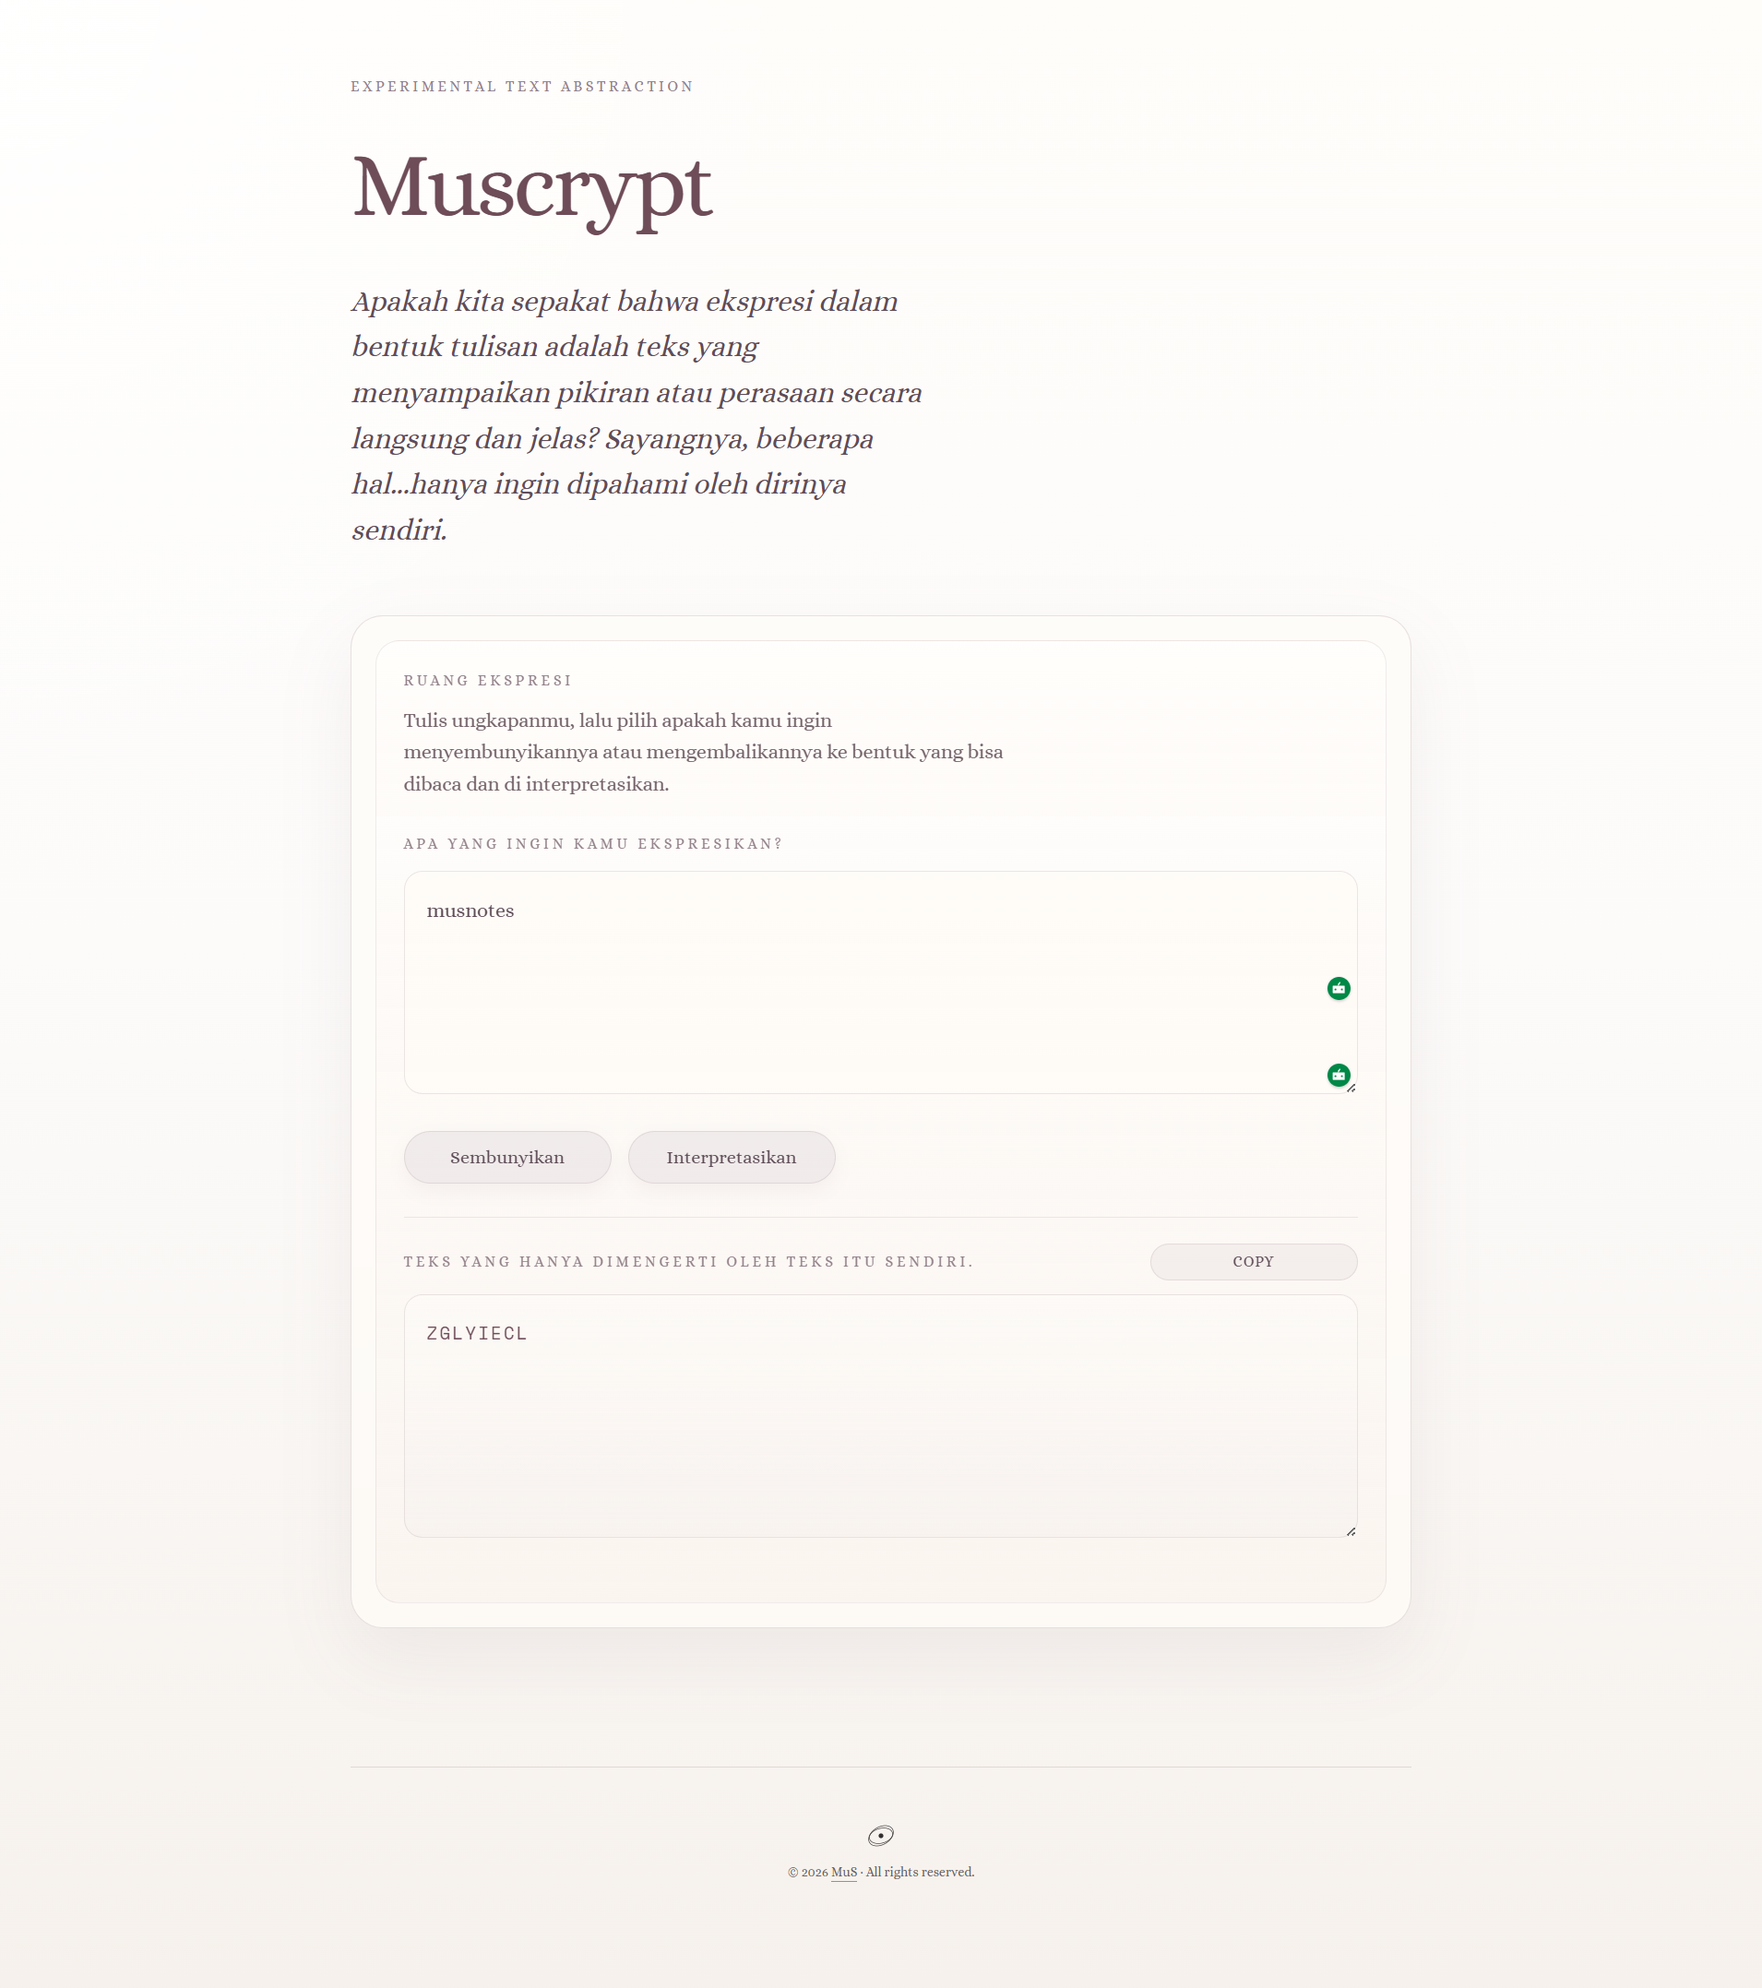
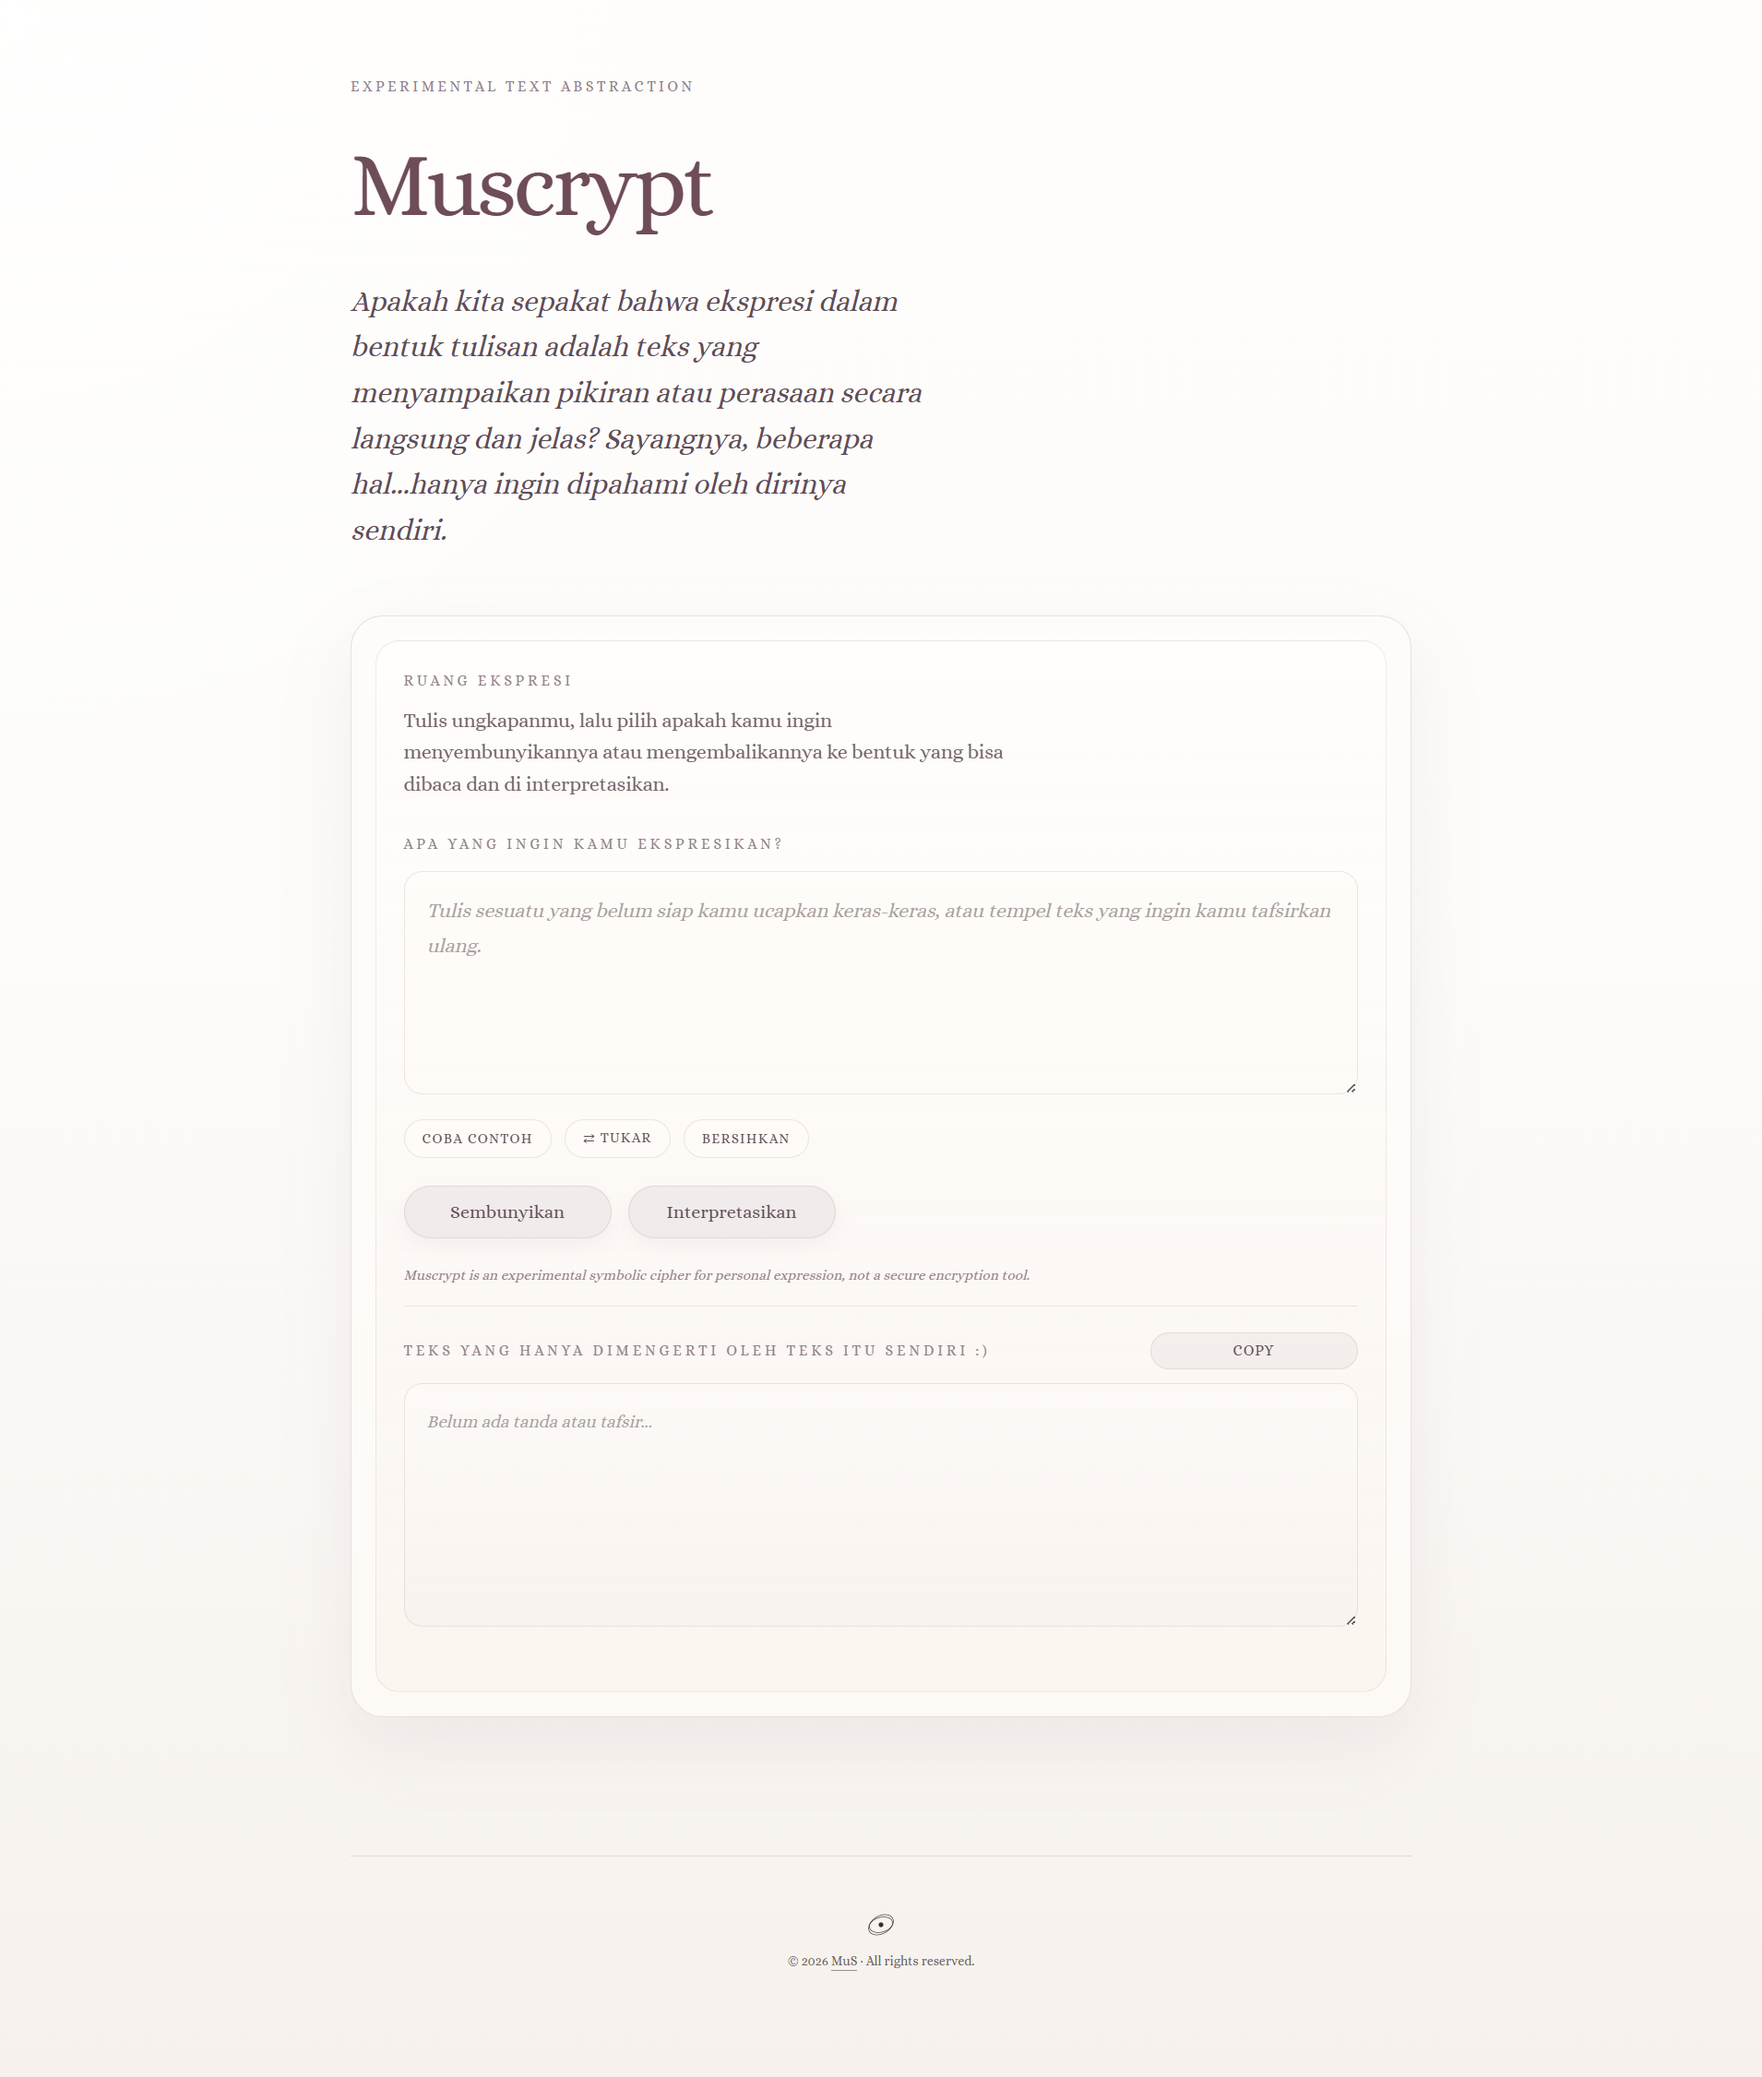
update 1.1

diff --git a/index.html b/index.html
@@ -6,7 +6,7 @@
     <meta charset="UTF-8">
     <meta name="viewport" content="width=device-width, initial-scale=1.0">
     <title>Muscrypt • Experimental Text Abstraction</title>
-    <meta name="description" content="Muscrypt adalah ruang kecil untuk menyembunyikan ekspresi dan membacanya kembali lewat pola cipher.">
+    <meta name="description" content="Muscrypt adalah eksperimen transformasi teks yang mengubah tulisan menjadi pola simbolik menggunakan pemetaan Monoalphabetic Substitution Cipher">
     <meta name="theme-color" content="#fcfbfa">
     <meta name="color-scheme" content="light dark">
     <link rel="canonical" href="https://muscrypt.musnotes.my.id/">
@@ -14,17 +14,17 @@
     <meta property="og:locale" content="id_ID">
     <meta property="og:type" content="website">
     <meta property="og:title" content="Muscrypt • Experimental Text Abstraction">
-    <meta property="og:description" content="Ruang kecil untuk menyembunyikan ekspresi dan membacanya kembali lewat pola cipher.">
+    <meta property="og:description" content="Ruang untuk menyembunyikan ekspresi dalam tulisan dan membacanya kembali melalui transformasi teks berbasis Monoalphabetic Substitution Cipher">
     <meta property="og:url" content="https://muscrypt.musnotes.my.id/">
     <meta property="og:site_name" content="Muscrypt">
     <meta property="og:image" content="https://muscrypt.musnotes.my.id/og-image.png">
     <meta property="og:image:width" content="1200">
     <meta property="og:image:height" content="630">
-    <meta property="og:image:alt" content="Muscrypt experimental text abstraction interface">
+    <meta property="og:image:alt" content="Antarmuka abstraksi teks eksperimental Muscrypt">
 
     <meta name="twitter:card" content="summary_large_image">
     <meta name="twitter:title" content="Muscrypt">
-    <meta name="twitter:description" content="Ruang kecil untuk menyembunyikan ekspresi dan membacanya kembali lewat pola cipher.">
+    <meta name="twitter:description" content="Ruang untuk menyembunyikan ekspresi dan membacanya kembali melalui transformasi teks berbasis Monoalphabetic Substitution Cipher">
     <meta name="twitter:image" content="https://muscrypt.musnotes.my.id/og-image.png">
 
     <link rel="icon" href="favicon/favicon.ico" sizes="any">
@@ -50,13 +50,20 @@
 
                 <div class="input-group">
                     <label for="inputText">Apa yang ingin kamu ekspresikan?</label>
-                    <textarea id="inputText" rows="5" placeholder="Tuliskan ungkapan di sini, atau masukkan ungkapan yang ingin kamu interpretasikan."></textarea>
+                    <textarea id="inputText" rows="5" placeholder="Tulis sesuatu yang belum siap kamu ucapkan keras-keras, atau tempel teks yang ingin kamu tafsirkan ulang."></textarea>
+                    <div class="input-tools" aria-label="Bantuan input">
+                        <button id="btnExample" class="input-tool-button" type="button">Coba contoh</button>
+                        <button id="btnSwap" class="input-tool-button" type="button">⇄ Tukar</button>
+                        <button id="btnClear" class="input-tool-button" type="button">Bersihkan</button>
+                    </div>
                 </div>
 
                 <div class="action-buttons">
                     <button id="btnEncode" type="button">Sembunyikan</button>
                     <button id="btnDecode" type="button">Interpretasikan</button>
                 </div>
+
+                <p class="cipher-disclaimer">Muscrypt is an experimental symbolic cipher for personal expression, not a secure encryption tool.</p>
 
                 <div class="input-group output-group">
                     <div class="output-head">

diff --git a/script.js b/script.js
@@ -40,6 +40,47 @@ const outputLabel = document.getElementById('outputLabel');
 const btnEncode = document.getElementById('btnEncode');
 const btnDecode = document.getElementById('btnDecode');
 const btnCopy = document.getElementById('btnCopy');
+const btnExample = document.getElementById('btnExample');
+const btnSwap = document.getElementById('btnSwap');
+const btnClear = document.getElementById('btnClear');
+const exampleText = "Sepertinya ekspresi dalam tulisan memang ditakdirkan untuk menafsirkan dirinya sendiri";
+
+let copyFeedbackTimer;
+let swapFeedbackTimer;
+
+function setCopyButtonText(text) {
+    btnCopy.textContent = text;
+}
+
+function resetCopyButton(delay = 0) {
+    window.clearTimeout(copyFeedbackTimer);
+
+    if (delay > 0) {
+        copyFeedbackTimer = window.setTimeout(() => {
+            setCopyButtonText('Copy');
+        }, delay);
+        return;
+    }
+
+    setCopyButtonText('Copy');
+}
+
+function setSwapButtonText(text) {
+    btnSwap.textContent = text;
+}
+
+function resetSwapButton(delay = 0) {
+    window.clearTimeout(swapFeedbackTimer);
+
+    if (delay > 0) {
+        swapFeedbackTimer = window.setTimeout(() => {
+            setSwapButtonText('⇄ Tukar');
+        }, delay);
+        return;
+    }
+
+    setSwapButtonText('⇄ Tukar');
+}
 
 function updateOutput(transform, labelText) {
     const teksInput = inputText.value;
@@ -59,10 +100,8 @@ async function copyOutput() {
     const teksOutput = outputText.value;
 
     if (!teksOutput) {
-        btnCopy.textContent = 'Kosong';
-        window.setTimeout(() => {
-            btnCopy.textContent = 'Copy';
-        }, 1200);
+        setCopyButtonText('Kosong');
+        resetCopyButton(1200);
         return;
     }
 
@@ -75,13 +114,40 @@ async function copyOutput() {
         outputText.setSelectionRange(outputText.value.length, outputText.value.length);
     }
 
-    btnCopy.textContent = 'Copied';
-    window.setTimeout(() => {
-        btnCopy.textContent = 'Copy';
-    }, 1200);
+    setCopyButtonText('Copied');
+    resetCopyButton(1200);
 }
 
 btnCopy.addEventListener('click', copyOutput);
+
+btnExample.addEventListener('click', () => {
+    inputText.value = exampleText;
+    inputText.focus();
+    inputText.setSelectionRange(inputText.value.length, inputText.value.length);
+});
+
+btnSwap.addEventListener('click', () => {
+    if (!outputText.value) {
+        setSwapButtonText('Masih kosong');
+        resetSwapButton(1200);
+        return;
+    }
+
+    inputText.value = outputText.value;
+    inputText.focus();
+    inputText.setSelectionRange(inputText.value.length, inputText.value.length);
+    setSwapButtonText('Dipindah');
+    resetSwapButton(1200);
+});
+
+btnClear.addEventListener('click', () => {
+    inputText.value = '';
+    outputText.value = '';
+    outputLabel.innerText = 'Teks yang hanya dimengerti oleh teks itu sendiri :)';
+    resetCopyButton();
+    resetSwapButton();
+    inputText.focus();
+});
 
 function initMusCustomCursor() {
     const mediaQuery = window.matchMedia('(hover: none), (pointer: coarse)');

diff --git a/style.css b/style.css
@@ -174,6 +174,29 @@ label {
     margin-bottom: 0.75rem;
 }
 
+.input-tools {
+    display: flex;
+    justify-content: flex-start;
+    gap: 0.7rem;
+    margin-top: 0.85rem;
+    flex-wrap: wrap;
+}
+
+.input-tool-button {
+    min-width: auto;
+    padding: 0.52rem 0.95rem;
+    border-radius: 999px;
+    font-size: 0.76rem;
+    letter-spacing: 0.08em;
+    text-transform: uppercase;
+    background: rgba(255, 251, 247, 0.56);
+    box-shadow: none;
+}
+
+.input-tool-button:hover {
+    box-shadow: 0 8px 18px rgba(110, 76, 88, 0.08);
+}
+
 textarea {
     width: 100%;
     background: rgba(255, 251, 247, 0.58);
@@ -206,6 +229,16 @@ textarea {
     gap: 0.9rem;
     margin-bottom: 1.8rem;
     flex-wrap: wrap;
+}
+
+.cipher-disclaimer {
+    max-width: 34rem;
+    margin-top: -0.45rem;
+    margin-bottom: 1rem;
+    color: var(--accent-muted);
+    font-size: 0.77rem;
+    line-height: 1.7;
+    font-style: italic;
 }
 
 button {
@@ -323,6 +356,12 @@ button:active {
         align-self: center;
     }
 
+    .input-tool-button,
+    .copy-button {
+        width: auto;
+        align-self: flex-start;
+    }
+
     .output-head {
         align-items: flex-start;
         flex-direction: column;
@@ -362,6 +401,10 @@ button:active {
 
     textarea {
         background: rgba(29, 25, 27, 0.68);
+    }
+
+    .input-tool-button {
+        background: rgba(54, 45, 49, 0.72);
     }
 
     #inputText:focus,
